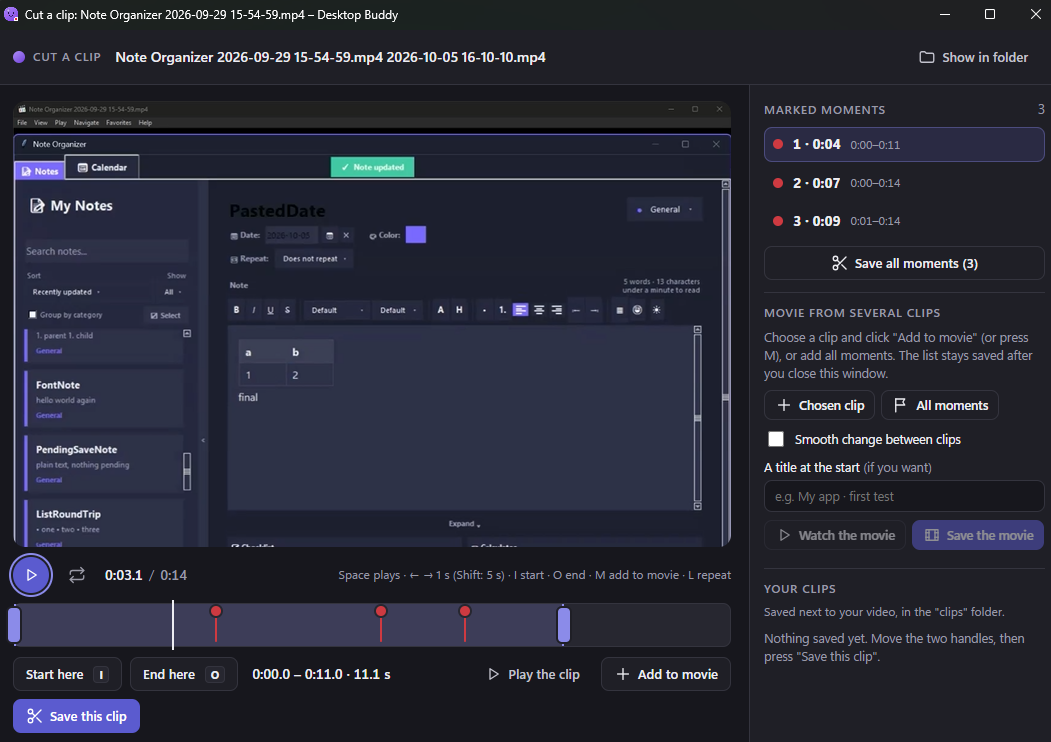
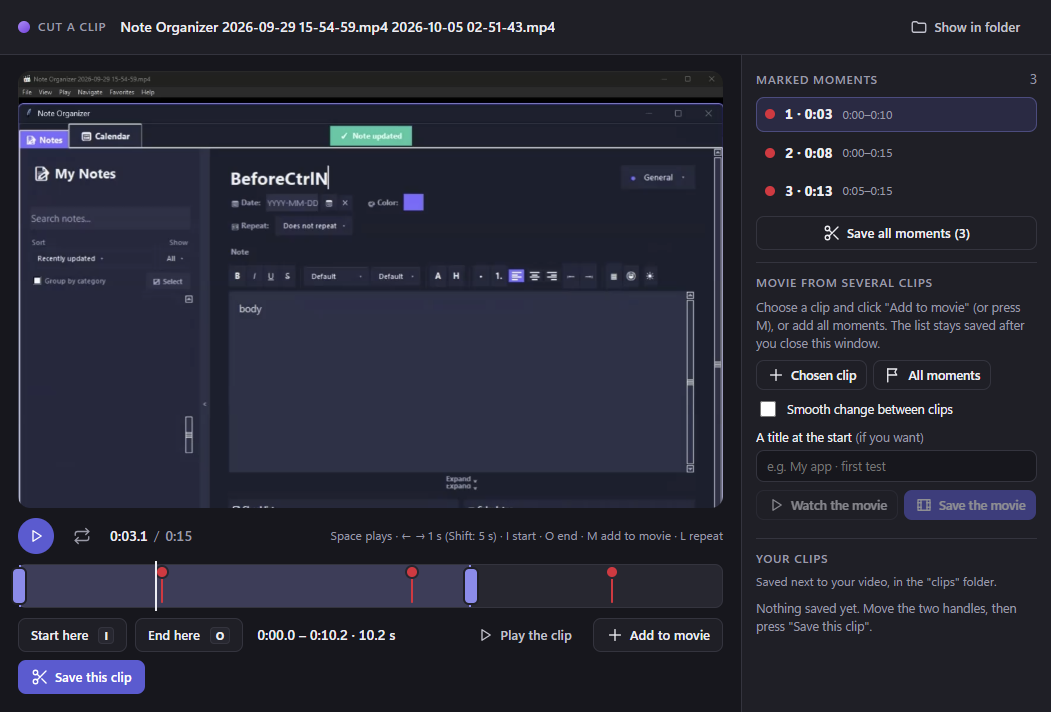
site: the clip editor picture follows the page's light or dark theme
The presentation page showed the clip editor in the dark theme only.
docs/media now has editor-montage.png (dark) and editor-montage-light.png,
both new and framed the same: the window's own content (no title bar),
captured through the DevTools protocol from npm start on _demo-data with
--remote-debugging-port, the theme emulated on that window, on the same
recording and frame (three marked moments, 0:03.1). The page shows the
one that matches its theme; with loading="lazy" the other is never
downloaded. build-site.js copies both; docs/media/README.md says how
they were taken.

The picture window (screenshot-annotate.png) has no light theme in the
app, so its picture stays as it is.

Checked over local HTTP in headless Edge, saved light, saved dark,
system light and system dark: the right picture shown, the hidden one
never requested, proportions kept; lint clean, web-demo tests 6/6.
site/ (gitignored) has the same files for the next deploy.

diff --git a/web/index.html b/web/index.html
@@ -75,7 +75,8 @@
   <section class="features" id="features" aria-labelledby="features-title">
     <div class="section-head"><h2 id="features-title">What it does</h2></div>
     <article class="feature">
-      <img src="media/editor-montage.png" alt="The clip editor on a real recording, with three marked moments on the timeline" loading="lazy">
+      <img class="shot-light" src="media/editor-montage-light.png" width="1051" height="712" alt="The clip editor on a real recording, with three marked moments on the timeline" loading="lazy">
+      <img class="shot-dark" src="media/editor-montage.png" width="1051" height="712" alt="The clip editor on a real recording, with three marked moments on the timeline" loading="lazy">
       <div>
         <h3>Records one window, not the screen</h3>
         <p>Tell it <i>"record any window whose title contains Note Organizer"</i>. It starts when the window opens, stops when it closes, joins quick relaunches into one file and skips the idle parts. Mark good moments with one click on the buddy, then cut clips or a short movie in the built-in editor, without ffmpeg.</p>

diff --git a/web/site.css b/web/site.css
@@ -87,6 +87,13 @@ section { padding: 32px 0; }
 .feature { display: grid; grid-template-columns: minmax(0, 7fr) minmax(0, 5fr); gap: 32px; align-items: center; background: var(--card); border: 1px solid var(--line); border-radius: 18px; padding: 22px; }
 .feature:nth-of-type(even) img { order: 2; }
 .feature img { border-radius: 10px; border: 1px solid var(--line); }
+/* A picture with a light and a dark version (the clip editor has both themes in the app): the one
+   that doesn't match the page's theme is hidden, and with loading="lazy" never downloaded. The
+   theme is the saved choice (data-theme) or, with nothing saved, the system setting. */
+:root[data-theme="light"] .shot-dark,
+:root[data-theme="dark"] .shot-light { display: none; }
+@media (prefers-color-scheme: dark) { :root:not([data-theme]) .shot-light { display: none; } }
+@media not (prefers-color-scheme: dark) { :root:not([data-theme]) .shot-dark { display: none; } }
 .feature h3 { margin: 0 0 8px; font-size: 22px; }
 .feature p { margin: 0; color: var(--muted); }
 

diff --git a/scripts/build-site.js b/scripts/build-site.js
@@ -168,7 +168,7 @@ function bundle() {
 function copyWeb() {
   copyDir(path.join(ROOT, 'web'), OUT);
   // the pictures shown on the presentation page
-  const media = ['hero.png', 'editor-montage.png', 'screenshot-annotate.png', 'buddy-shapes.png', 'stats-30-days.png', 'notes-checklist-reminders.png', 'panels-progress.png', 'screenshot-gallery.png'];
+  const media = ['hero.png', 'editor-montage.png', 'editor-montage-light.png', 'screenshot-annotate.png', 'buddy-shapes.png', 'stats-30-days.png', 'notes-checklist-reminders.png', 'panels-progress.png', 'screenshot-gallery.png'];
   fs.mkdirSync(path.join(OUT, 'media'), { recursive: true });
   for (const m of media) fs.copyFileSync(path.join(ROOT, 'docs', 'media', m), path.join(OUT, 'media', m));
   fs.copyFileSync(path.join(ROOT, 'src', 'assets', 'icon.png'), path.join(OUT, 'media', 'icon.png'));

diff --git a/docs/media/README.md b/docs/media/README.md
@@ -6,7 +6,7 @@ Images used by the main README and `docs/FEATURES.md`.
 |---|---|---|
 | `hero.png` | the buddy + the panel while recording + Last 30 days | composite of Windows screenshots |
 | `panel-video.png` | Video tab during a recording, with *Remember this moment* | Windows screenshot |
-| `editor-montage.png` | clip editor with three marked moments, dark theme | Windows screenshot, a real recording of a test app |
+| `editor-montage.png` / `editor-montage-light.png` | clip editor with three marked moments, dark / light theme (the presentation page shows the one that matches its theme) | the window's own content (no title bar), captured through the DevTools protocol with the theme emulated, from `npm start` on `_demo-data` with `--remote-debugging-port`; a real recording of a test app |
 | `stats-30-days.png` | Statistics → Last 30 days | Windows screenshot, demo data |
 | `panels-progress.png` | Time tab level card + *How the buddy looks* with locked shapes, dark theme | Windows screenshots, demo data |
 | `screenshot-gallery.png` | the Pictures gallery | Windows screenshot |
